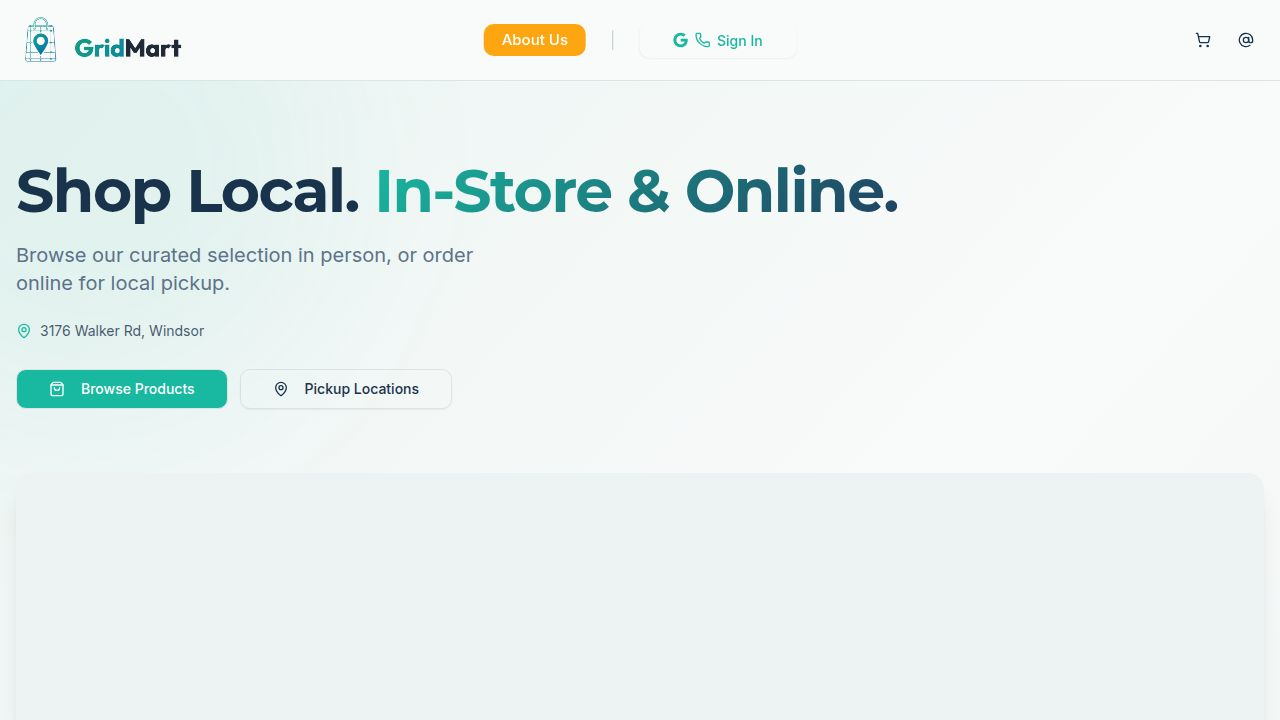
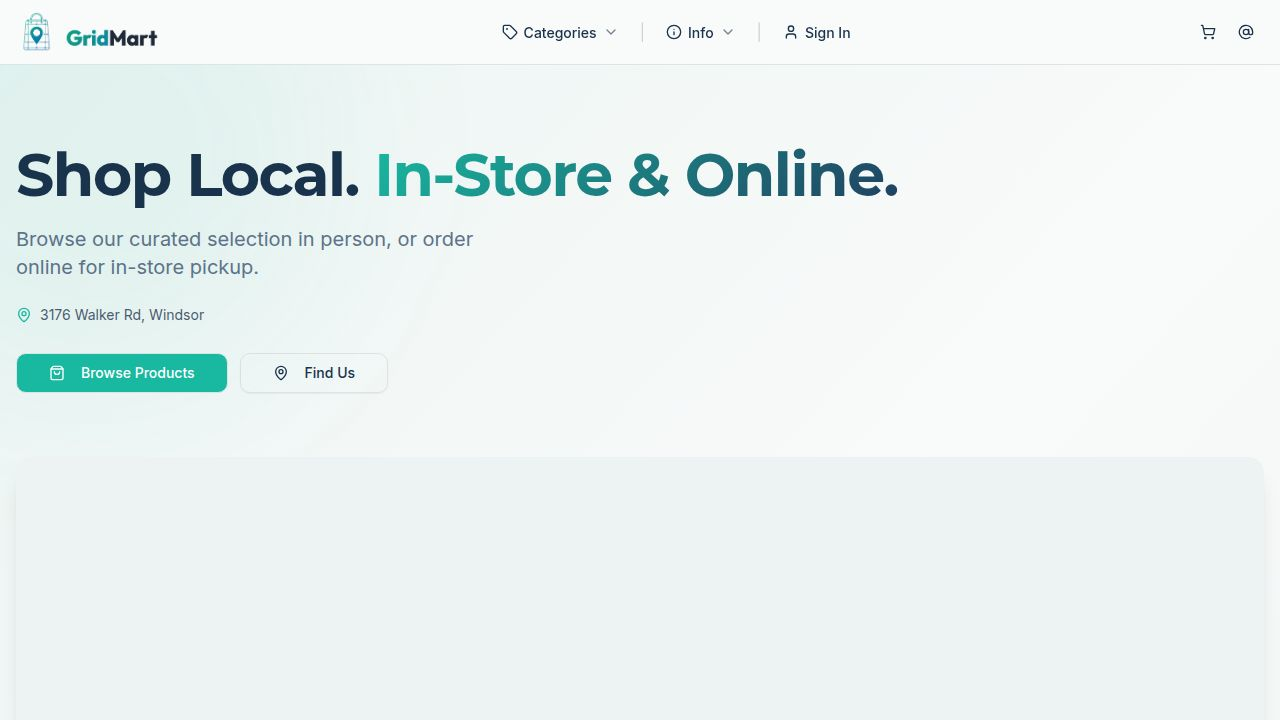
Improve database connection stability by preventing timeouts
Adjust database connection pool settings to enable TCP keepalive, reduce idle timeout, and add an error handler to prevent connection drops from causing application crashes.

Replit-Commit-Author: Agent
Replit-Commit-Session-Id: 0d1b3f7f-997c-49ec-ad17-f028452ddb65
Replit-Commit-Checkpoint-Type: full_checkpoint
Replit-Commit-Event-Id: 21461263-a97a-4f20-a04b-13878d458cdb
Replit-Commit-Screenshot-Url: https://storage.googleapis.com/screenshot-production-us-central1/b60af932-1cfd-445a-9382-97cf14afdbef/0d1b3f7f-997c-49ec-ad17-f028452ddb65/F2FSRZi
Replit-Helium-Checkpoint-Created: true

diff --git a/db/index.ts b/db/index.ts
@@ -10,8 +10,16 @@ if (!process.env.DATABASE_URL) {
 export const pool = new Pool({
   connectionString: process.env.DATABASE_URL,
   connectionTimeoutMillis: 5000,
-  idleTimeoutMillis: 30000,
+  idleTimeoutMillis: 10000,
   max: 10,
+  keepAlive: true,
+  keepAliveInitialDelayMillis: 5000,
+});
+
+// Prevent idle-connection drops from crashing the process.
+// pg auto-reconnects on the next query; we just need to swallow the error event.
+pool.on("error", (err) => {
+  console.warn("[db pool] idle client error (auto-recovers):", err.message);
 });
 
 export const db = drizzle(pool);
